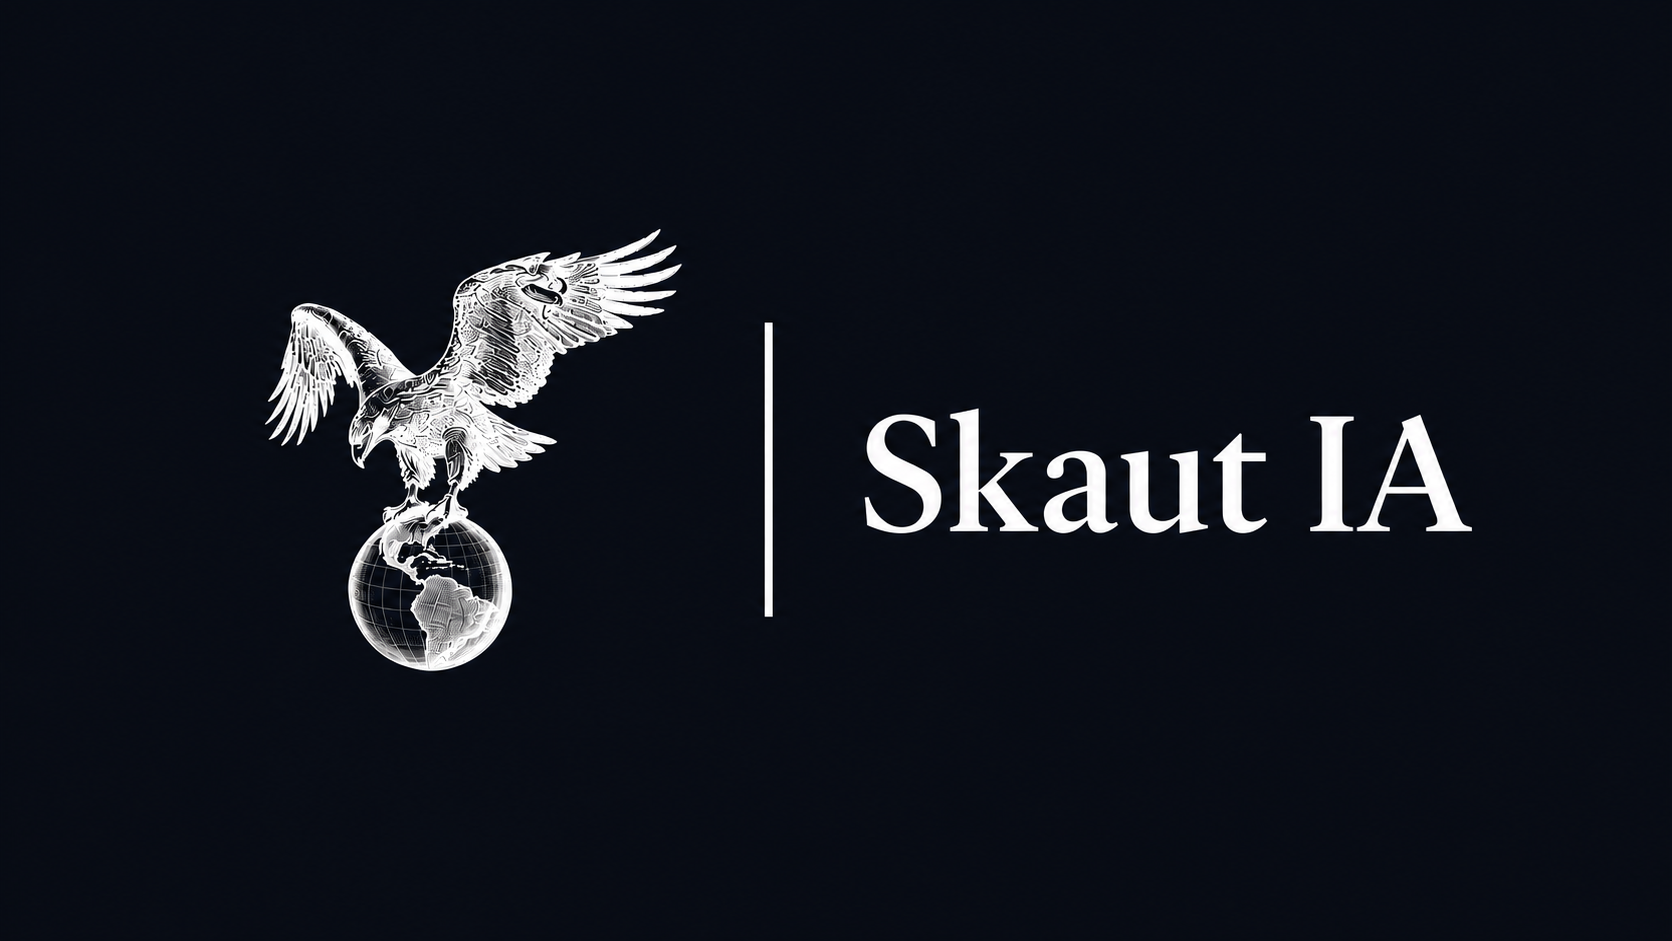
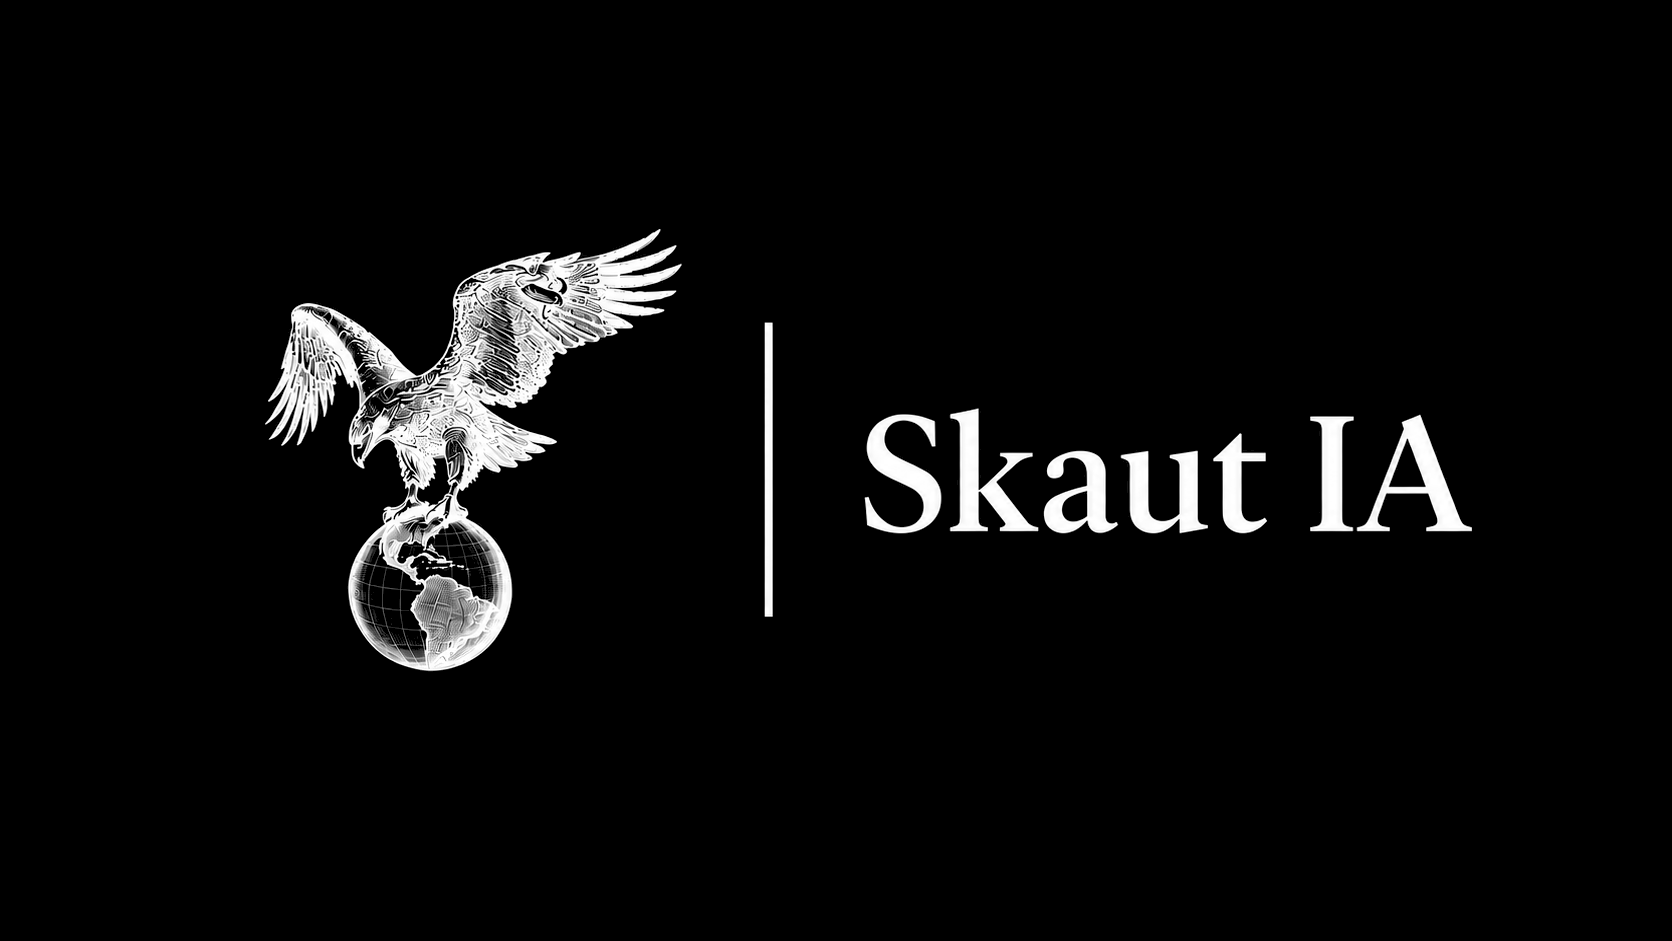
Skaut Release Home

diff --git a/app/page.tsx b/app/page.tsx
@@ -23,7 +23,7 @@ export default function Home() {
             width={1200}
             height={400}
             priority
-            className="h-auto w-full max-w-md"
+            className="h-auto w-full max-w-md bg-black"
           />
         </div>
         <h2 className="mt-10 text-2xl font-semibold tracking-tight sm:text-4xl">
